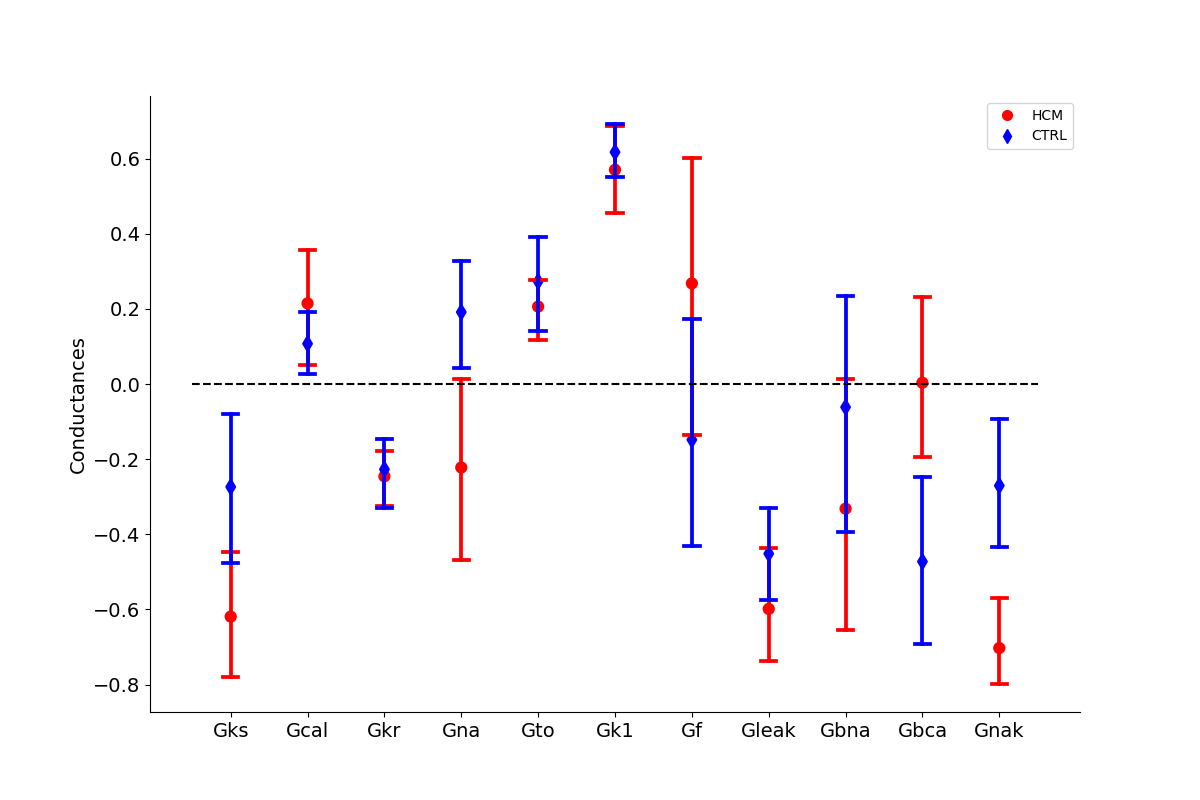
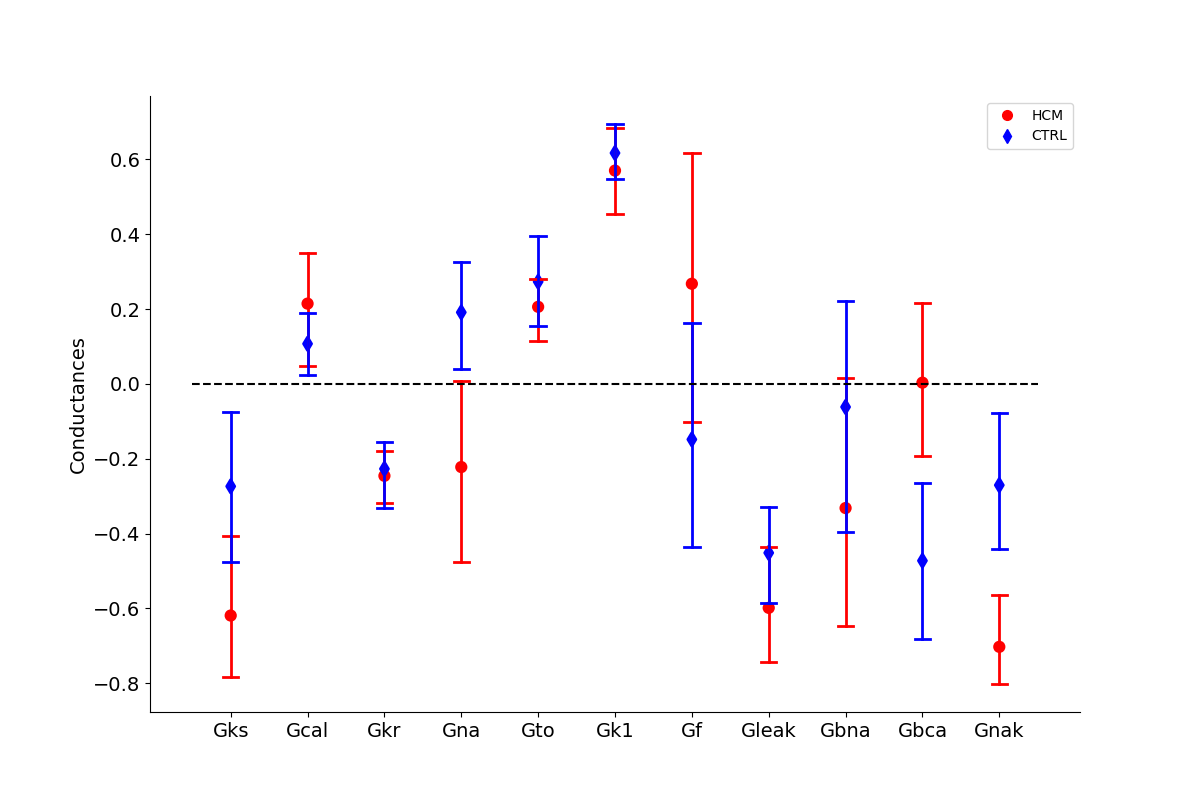
new

diff --git a/GA_bNa_bCa_NaK/bar_plot.py b/GA_bNa_bCa_NaK/bar_plot.py
@@ -47,9 +47,8 @@ plt.rcParams['svg.fonttype'] = 'none'
 axs.spines['right'].set_visible(False)
 axs.spines['top'].set_visible(False)
 
-sns.pointplot(df_hcm, join=False, capsize=.2, color='red')
-sns.pointplot(df_ctrl, join=False, capsize=.2, color='blue', markers='d')
-sns.lineplot(linewidth=0.2)
+sns.pointplot(df_hcm, join=False, capsize=.2, color='red', markers='o', errwidth= 2)
+sns.pointplot(df_ctrl, join=False, capsize=.2, color='blue', markers='d', errwidth= 2)
 
 red_circle = mlines.Line2D([], [], color='red', marker='o', linestyle='None', markersize=7, label='HCM')
 blue_diamond = mlines.Line2D([], [], color='blue', marker='d', linestyle='None', markersize=7, label='CTRL')
